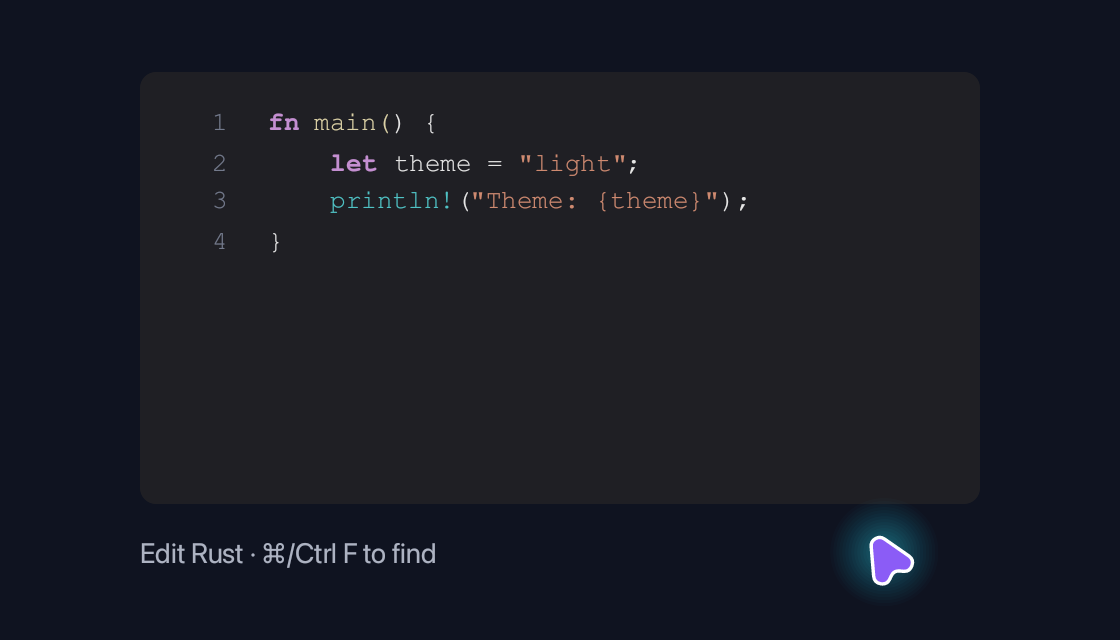
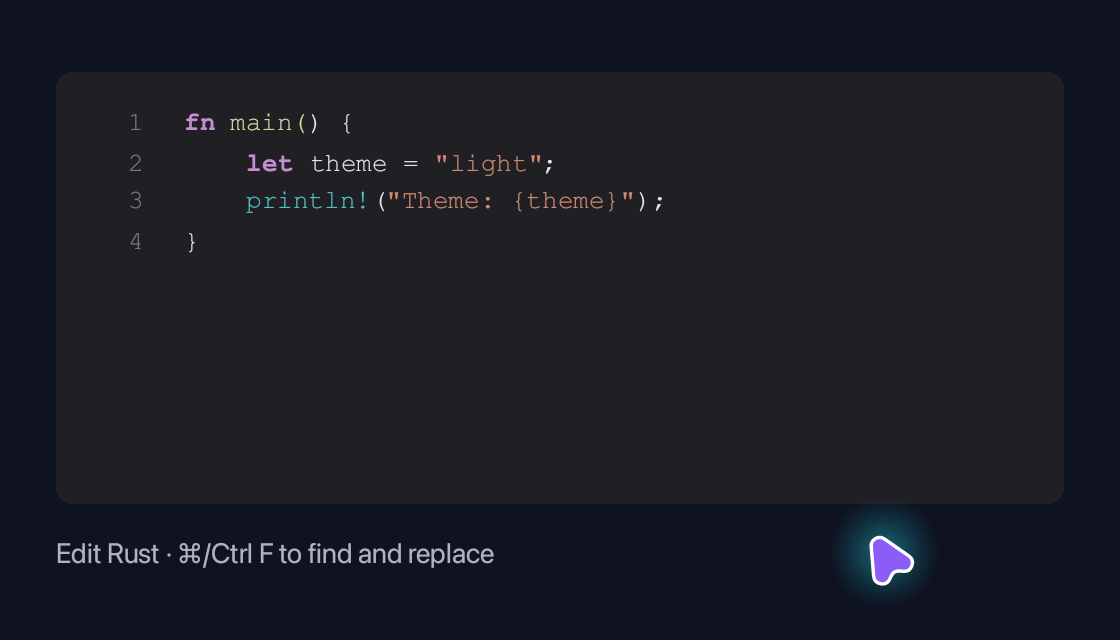
docs(web): show the cn code editor in the demos
The gallery and cn_demo use cn::code_editor, and its preview opens the find bar.

git-bug: 5691a8d9aaace36af8d67c8cb32ba99dc6f92f6f1d0827ce968210a42ecbb93d

Changed region(s): [[0.2188, 0.2188, 0.625, 0.3438], [0.0312, 0.8438, 0.4375, 0.9062], [0.1562, 0.1562, 0.3438, 0.2188]]

diff --git a/examples/blinc_component_demos/demo.css b/examples/blinc_component_demos/demo.css
@@ -13,6 +13,8 @@
 
 .demo-pie { display: flex; align-items: center; justify-content: center; width: 100%; max-width: 420px; }
 .demo-wide { display:flex; flex-direction:column; gap:16px; width:100%; max-width:420px; }
+/* Wide enough for the code editor's find bar to take one line. */
+.demo-wide.demo-editor { max-width:504px; }
 .demo-row { display:flex; flex-wrap:wrap; align-items:center; justify-content:center; gap:12px; }
 .demo-card-width { width:100%; max-width:360px; }
 .demo-panel { padding:16px; background:var(--surface); color:var(--text-primary); border-radius:var(--radius-default); }

diff --git a/examples/blinc_app_examples/examples/cn_demo.rs b/examples/blinc_app_examples/examples/cn_demo.rs
@@ -9,6 +9,8 @@ use blinc_app::windowed::WindowedApp;
 use blinc_app::windowed::WindowedContext;
 use blinc_cn::prelude::*;
 use blinc_core::{Color, computed};
+use blinc_layout::syntax::{RustHighlighter, SyntaxConfig};
+use blinc_layout::widgets::code::{SharedCodeEditorState, code_editor_state};
 use blinc_layout::widgets::text_input::text_input_data;
 use blinc_theme::{ColorToken, ThemeBundle, ThemeState};
 
@@ -148,6 +150,7 @@ pub fn build_ui(ctx: &mut WindowedContext) -> impl ElementBuilder + use<> {
                         .child(tree_view_section())
                         .child(table_section())
                         .child(rich_text_section(ctx))
+                        .child(code_editor_section())
                         .child(charts_section(ctx)),
                 ),
         )
@@ -3975,6 +3978,38 @@ thread_local! {
             )),
         ]
     };
+}
+
+thread_local! {
+    /// The code example's text, kept across rebuilds so edits survive a resize.
+    static CODE_DOC: SharedCodeEditorState = code_editor_state(
+        "use std::collections::HashMap;\n\n/// How often each word comes up.\n\
+         fn count(words: &[&str]) -> HashMap<String, usize> {\n    \
+         let mut seen = HashMap::new();\n    for word in words {\n        \
+         *seen.entry(word.to_string()).or_insert(0) += 1;\n    }\n    seen\n}\n\n\
+         fn main() {\n    let words = [\"tree\", \"leaf\", \"tree\"];\n    \
+         println!(\"{:?}\", count(&words));\n}",
+    );
+}
+
+fn code_editor_section() -> impl ElementBuilder + use<> {
+    let code = CODE_DOC.with(|code| code.clone());
+    section_container()
+        .id("code-editor-examples")
+        .child(section_title("Code Editor"))
+        .child(
+            cn::code_editor(&code)
+                .syntax(SyntaxConfig::new(RustHighlighter::new()))
+                .line_numbers(true)
+                .code_folding(true)
+                .indent_guides(true)
+                .minimap(true)
+                .w_full()
+                .h(320.0),
+        )
+        .child(cn::label(
+            "Cmd or Ctrl+F finds, Cmd+Option+F or Ctrl+H replaces",
+        ))
 }
 
 fn rich_text_section(ctx: &WindowedContext) -> impl ElementBuilder + use<> {

diff --git a/examples/blinc_component_demos/src/capture.rs b/examples/blinc_component_demos/src/capture.rs
@@ -231,6 +231,18 @@ fn capture(output: &std::path::Path, slug: &str) -> Result<(), Box<dyn Error>> {
                         ui.key_with_shift(39, true);
                     }
                 }
+                if slug == "code-editor" {
+                    // After the edit, find a word in the code and step to its next match.
+                    if index == 34 {
+                        ui.key_with_modifiers(70, false, false, false, true);
+                    }
+                    if (40..50).contains(&index) && index % 2 == 0 {
+                        ui.type_text(&"theme"[(index - 40) / 2..][..1]);
+                    }
+                    if index == 56 {
+                        ui.key(13);
+                    }
+                }
                 if index == 18 && slug == "rich-text-editor" {
                     ui.key(40).key(35).key(13);
                 }

diff --git a/examples/blinc_component_demos/src/gallery/builtin.rs b/examples/blinc_component_demos/src/gallery/builtin.rs
@@ -17,17 +17,17 @@ pub fn code_editor_demo(values: &DemoState, _: (f32, f32)) -> Div {
     let name = values.name;
     div()
         .class("demo-wide")
+        .class("demo-editor")
         .child(
-            code_editor(&values.code)
+            blinc_cn::components::code_editor::code_editor(&values.code)
                 .syntax(SyntaxConfig::new(RustHighlighter::new()))
                 .line_numbers(true)
                 .font_size(13.0)
-                .search_enabled(true)
                 .on_change(move |text| name.set(text.to_string()))
                 .w_full()
                 .h(216.0),
         )
-        .child(text("Edit Rust · ⌘/Ctrl F to find").class("demo-caption"))
+        .child(text("Edit Rust · ⌘/Ctrl F to find and replace").class("demo-caption"))
 }
 
 pub fn rich_text_editor_demo(values: &DemoState, viewport: (f32, f32)) -> Div {
